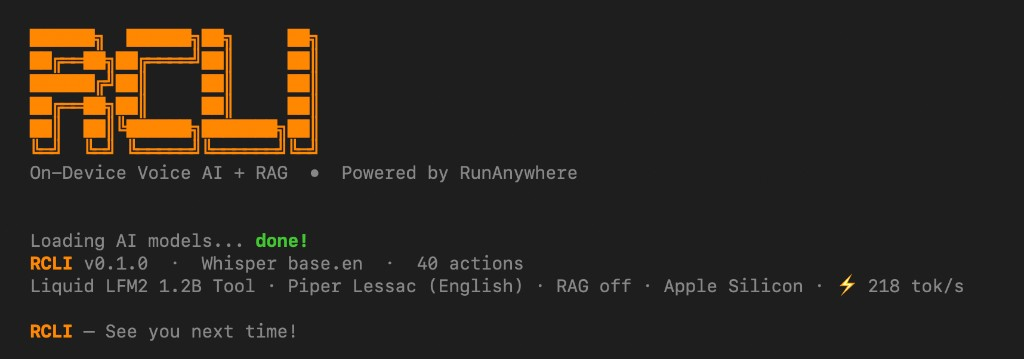
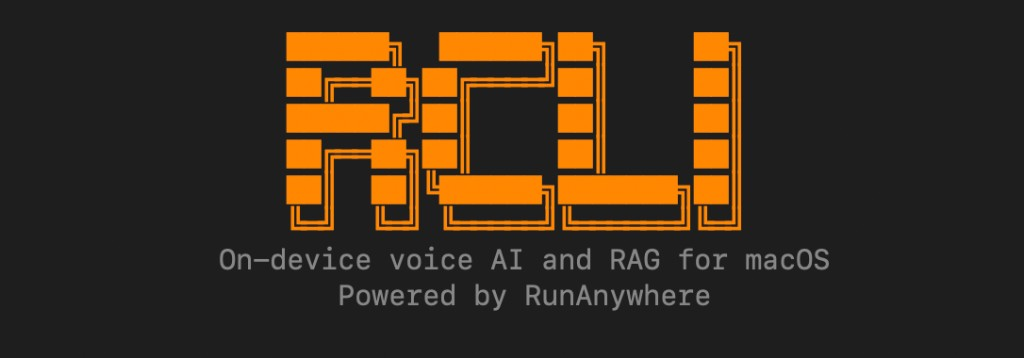
updates

Changed region(s): [[0.0312, 0.0615, 0.8125, 0.8603], [0.0312, 0.8911, 0.2812, 0.9525], [0.8125, 0.7682, 0.9375, 0.8296]]

diff --git a/src/cli/tui_app.h b/src/cli/tui_app.h
@@ -777,15 +777,21 @@ private:
 
         if (chat_history_.empty()) {
             lines.push_back(text("") | dim);
-            lines.push_back(
-                text("  Welcome to RCLI") | ftxui::bold | ftxui::color(theme_.accent));
+            lines.push_back(text(u8"██████╗  ██████╗██╗     ██╗") | ftxui::bold | ftxui::color(theme_.accent) | center);
+            lines.push_back(text(u8"██╔══██╗██╔════╝██║     ██║") | ftxui::bold | ftxui::color(theme_.accent) | center);
+            lines.push_back(text(u8"██████╔╝██║     ██║     ██║") | ftxui::bold | ftxui::color(theme_.accent) | center);
+            lines.push_back(text(u8"██╔══██╗██║     ██║     ██║") | ftxui::bold | ftxui::color(theme_.accent) | center);
+            lines.push_back(text(u8"██║  ██║╚██████╗███████╗██║") | ftxui::bold | ftxui::color(theme_.accent) | center);
+            lines.push_back(text(u8"╚═╝  ╚═╝ ╚═════╝╚══════╝╚═╝") | ftxui::bold | ftxui::color(theme_.accent) | center);
+            lines.push_back(text("On-device voice AI and RAG for macOS") | dim | center);
+            lines.push_back(text("Powered by RunAnywhere") | dim | center);
             lines.push_back(text("") | dim);
-            lines.push_back(text("  SPACE       Start/stop voice recording") | dim);
+            lines.push_back(text("  SPACE          Start/stop voice recording") | dim);
             lines.push_back(text("  Type + ENTER   Send a text command or question") | dim);
-            lines.push_back(text("  help        Show all commands") | dim);
+            lines.push_back(text("  help           Show all commands") | dim);
             lines.push_back(text("") | dim);
             lines.push_back(
-                text("  RAG:  Drag a file or folder here to index it, then ask questions about it.") | ftxui::bold);
+                text("  RAG: Drag a file or folder here to index it, then ask questions about it.") | ftxui::bold);
             lines.push_back(text("") | dim);
             lines.push_back(text("  Try: \"open Safari\"   \"what's the weather?\"   \"set volume to 50\"") | dim);
         } else {

diff --git a/src/cli/help.h b/src/cli/help.h
@@ -200,10 +200,21 @@ inline void print_banner(const Args& /*args*/) {
         u8"╚═╝  ╚═╝ ╚═════╝╚══════╝╚═╝",
     };
 
+    static const int art_visual_width = 28;
+    static const char* tagline = "On-device voice AI and RAG for macOS";
+    static const int tagline_len = 36;
+    static const char* powered = "Powered by RunAnywhere";
+    static const int powered_len = 22;
+
+    int tw = get_terminal_width();
+    int art_pad = (tw > art_visual_width) ? (tw - art_visual_width) / 2 : 0;
+    int tag_pad = (tw > tagline_len) ? (tw - tagline_len) / 2 : 0;
+    int pow_pad = (tw > powered_len) ? (tw - powered_len) / 2 : 0;
+
     fprintf(stderr, "\n");
     for (int i = 0; i < 6; i++) {
-        fprintf(stderr, "  %s%s%s%s\n", color::bold, color::orange, art[i], color::reset);
+        fprintf(stderr, "%*s%s%s%s%s\n", art_pad, "", color::bold, color::orange, art[i], color::reset);
     }
-    fprintf(stderr, "  %sOn-Device Voice AI + RAG  •  Powered by RunAnywhere%s\n\n",
-            color::dim, color::reset);
+    fprintf(stderr, "%*s%s%s%s\n", tag_pad, "", color::dim, tagline, color::reset);
+    fprintf(stderr, "%*s%s%s%s\n\n", pow_pad, "", color::dim, powered, color::reset);
 }

diff --git a/README.md b/README.md
@@ -1,10 +1,19 @@
-![RCLI](assets/terminal.png)
+<p align="center">
+  <img src="assets/terminal.png" alt="RCLI" width="700" />
+</p>
 
-# RCLI
+<p align="center">
+  <strong>On-device voice AI and RAG for macOS.</strong><br>
+  Talk to your Mac, query your docs, no cloud required.
+</p>
 
-**Voice-first AI for macOS. Talk to your Mac, query your docs, all on-device.**
-
-[![macOS](https://img.shields.io/badge/platform-macOS-blue)](https://github.com/RunanywhereAI/RCLI) [![Apple Silicon](https://img.shields.io/badge/chip-Apple_Silicon-black)](https://github.com/RunanywhereAI/RCLI) [![C++17](https://img.shields.io/badge/language-C++17-orange)](https://github.com/RunanywhereAI/RCLI) [![Local](https://img.shields.io/badge/inference-100%25_local-green)](https://github.com/RunanywhereAI/RCLI) [![MIT](https://img.shields.io/badge/license-MIT-blue)](LICENSE)
+<p align="center">
+  <a href="https://github.com/RunanywhereAI/RCLI"><img src="https://img.shields.io/badge/platform-macOS-blue" alt="macOS"></a>
+  <a href="https://github.com/RunanywhereAI/RCLI"><img src="https://img.shields.io/badge/chip-Apple_Silicon-black" alt="Apple Silicon"></a>
+  <a href="https://github.com/RunanywhereAI/RCLI"><img src="https://img.shields.io/badge/language-C++17-orange" alt="C++17"></a>
+  <a href="https://github.com/RunanywhereAI/RCLI"><img src="https://img.shields.io/badge/inference-100%25_local-green" alt="Local"></a>
+  <a href="LICENSE"><img src="https://img.shields.io/badge/license-MIT-blue" alt="MIT"></a>
+</p>
 
 A complete STT + LLM + TTS pipeline running on Apple Silicon with Metal GPU. 40 macOS actions via voice or text. Local RAG over your documents. Sub-200ms end-to-end latency. No cloud, no API keys.
 
